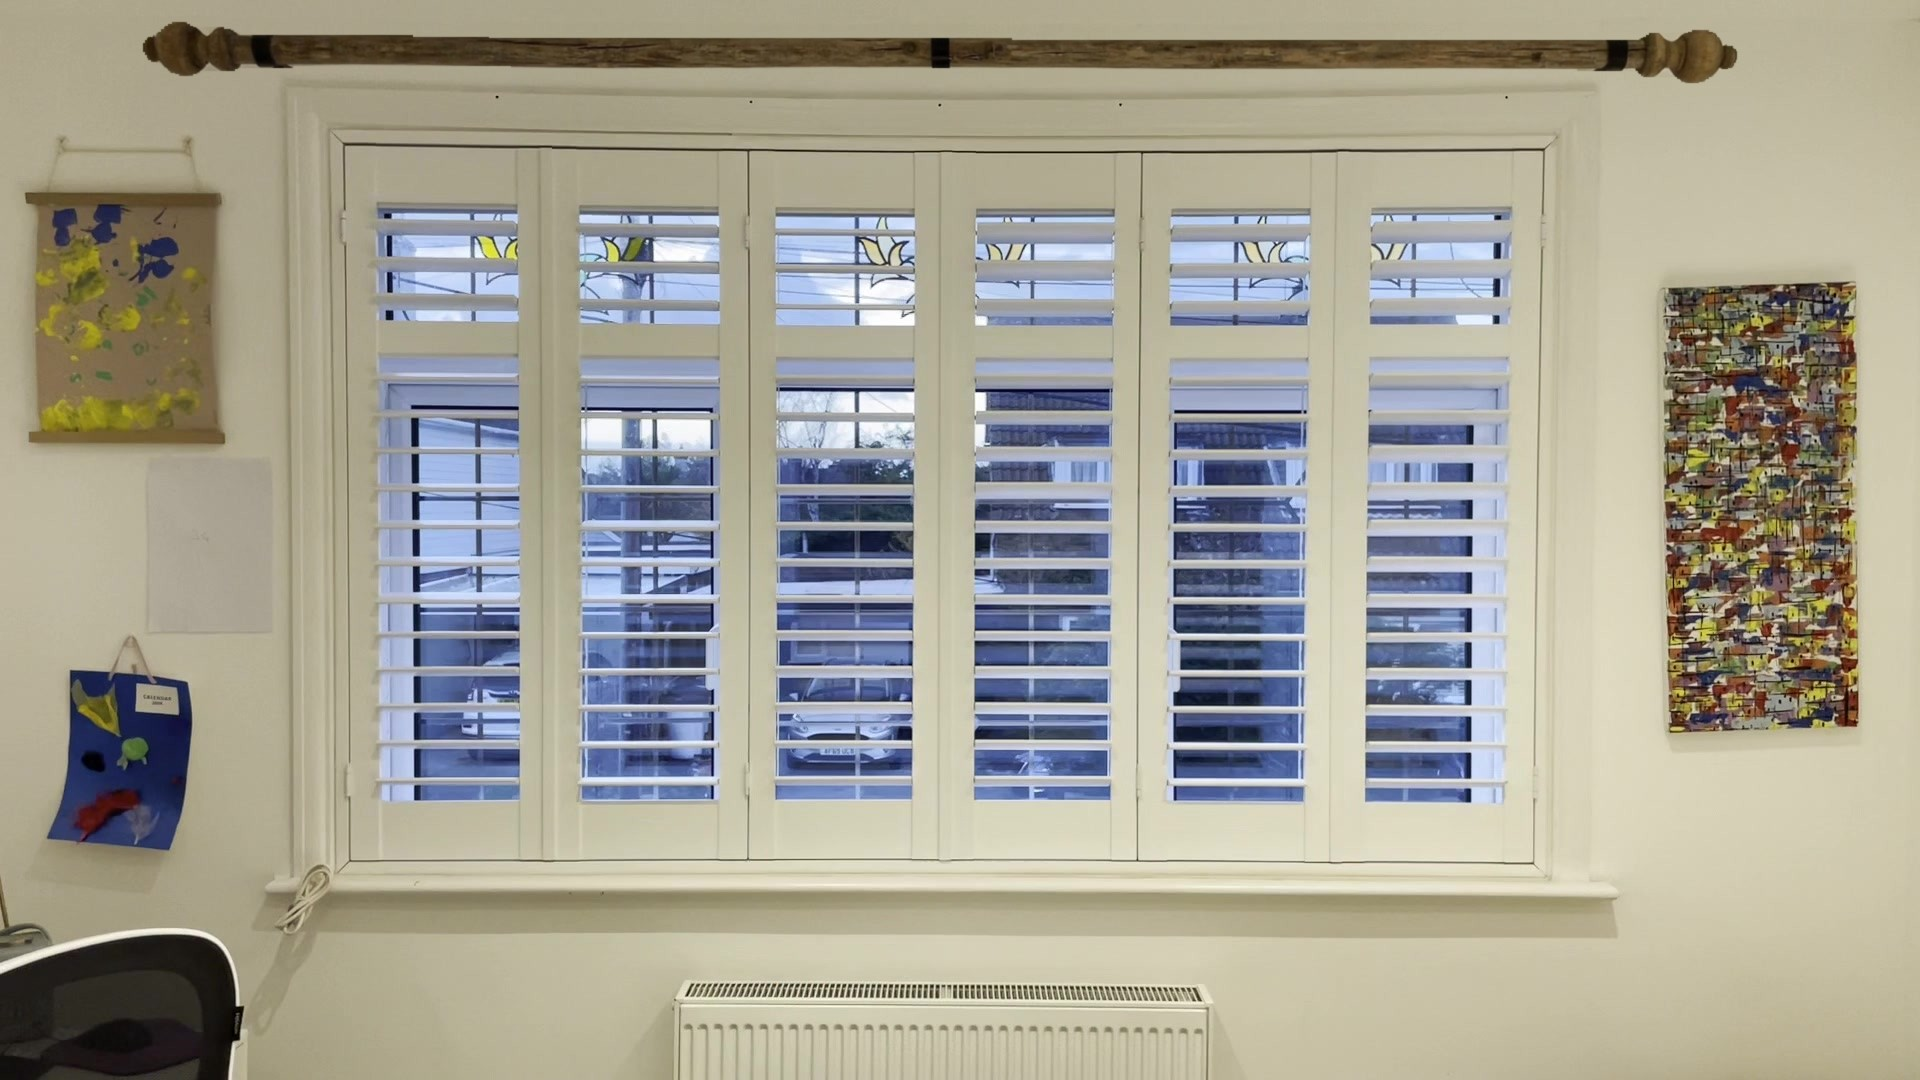
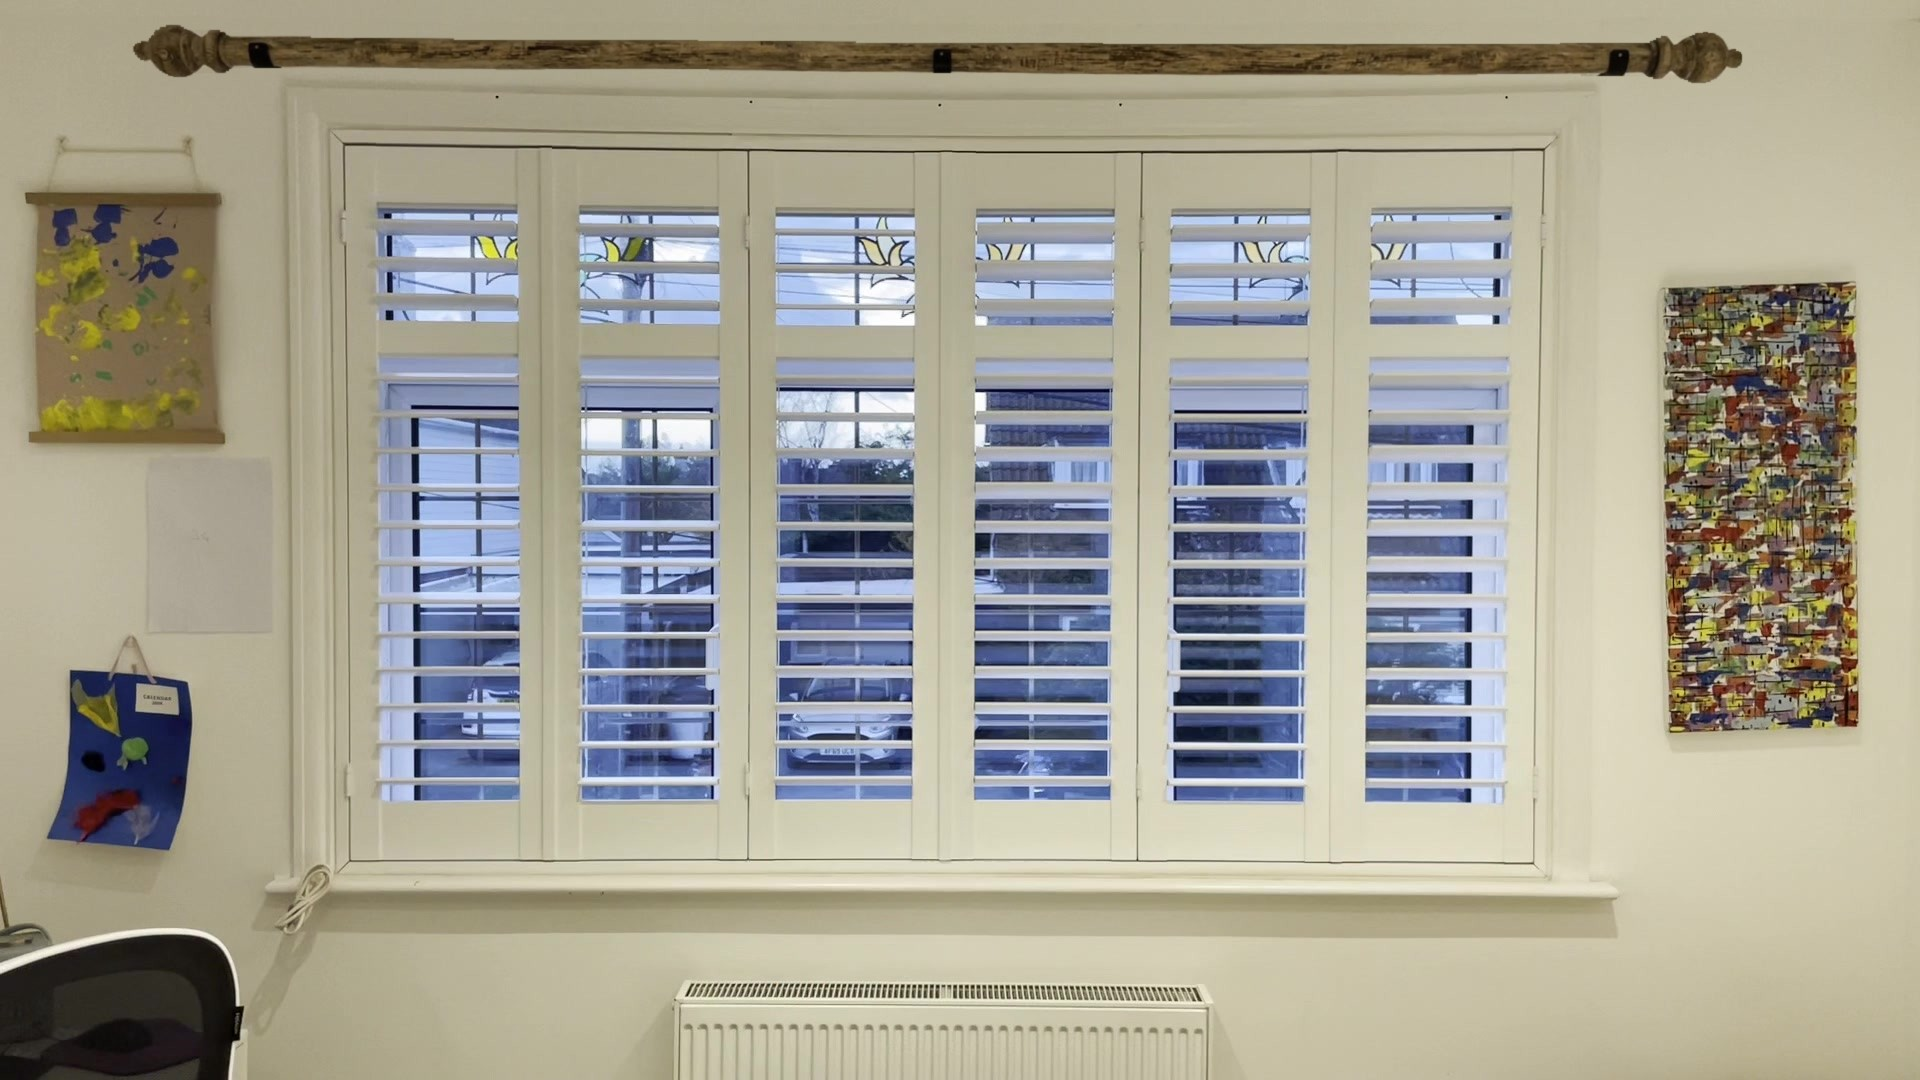
Hand tracking capped at 35 s so a slow call never holds up the size; samples re-recorded one at a time; footer says buyer-quoted numbers are allowed

Changed region(s): [[0.0625, 0.0, 0.9062, 0.0917]]

diff --git a/src/pipeline.ts b/src/pipeline.ts
@@ -155,9 +155,11 @@ export async function runClip(apiKey: string, input: { mp4: Buffer; frames: Buff
     timings.handsMs = t() - t0;
     return h;
   })().catch((e) => { timings.handsFailed = 1; return [] as SamObject[]; });
+  // Hands are a nice-to-have (where the buyer pointed); never let a slow tracking call hold up the size.
+  const handsCapped = Promise.race([handsP, new Promise<SamObject[]>((res) => { setTimeout(() => { timings.handsTimedOut = 1; res([]); }, Number(process.env.HANDS_TIMEOUT_MS || 35000)).unref?.(); })]);
   const [per0, handT, transcript] = await Promise.all([
     Promise.all(picked.map((i) => measureStill(api, input.frames[i]).catch((e): StillResult => ({ ok: false, reason: String(e?.message || e) })))),
-    handsP,
+    handsCapped,
     input.wav ? transcribeWav(apiKey, input.wav).catch((e) => `(transcription failed: ${e.message})`) : Promise.resolve(""),
   ]);
   timings.measureMs = t() - t0;

diff --git a/public/index.html b/public/index.html
@@ -91,7 +91,7 @@
       <li><span class="how-n">3</span><p><b>Reply.</b> Muse Voice Transcribe hears what the buyer asked. Muse Spark drafts my reply.</p></li>
       <li><span class="how-n">4</span><p><b>Show.</b> Muse Image paints the pole on their wall, and SAM cuts it out so nothing else in the photo changes.</p></li>
     </ol>
-    <p class="how-guard">Every number in the reply comes from the measuring code. The reply is checked and rejected if it contains any number the code didn't produce.</p>
+    <p class="how-guard">Every number in the reply comes from the measuring code or from the buyer's own words. The reply is checked, and rejected if it contains any other number.</p>
     <p class="how-acc"><button type="button" class="link-btn" id="accBtn" hidden>Measured against a tape</button></p>
   </footer>
 </div>
